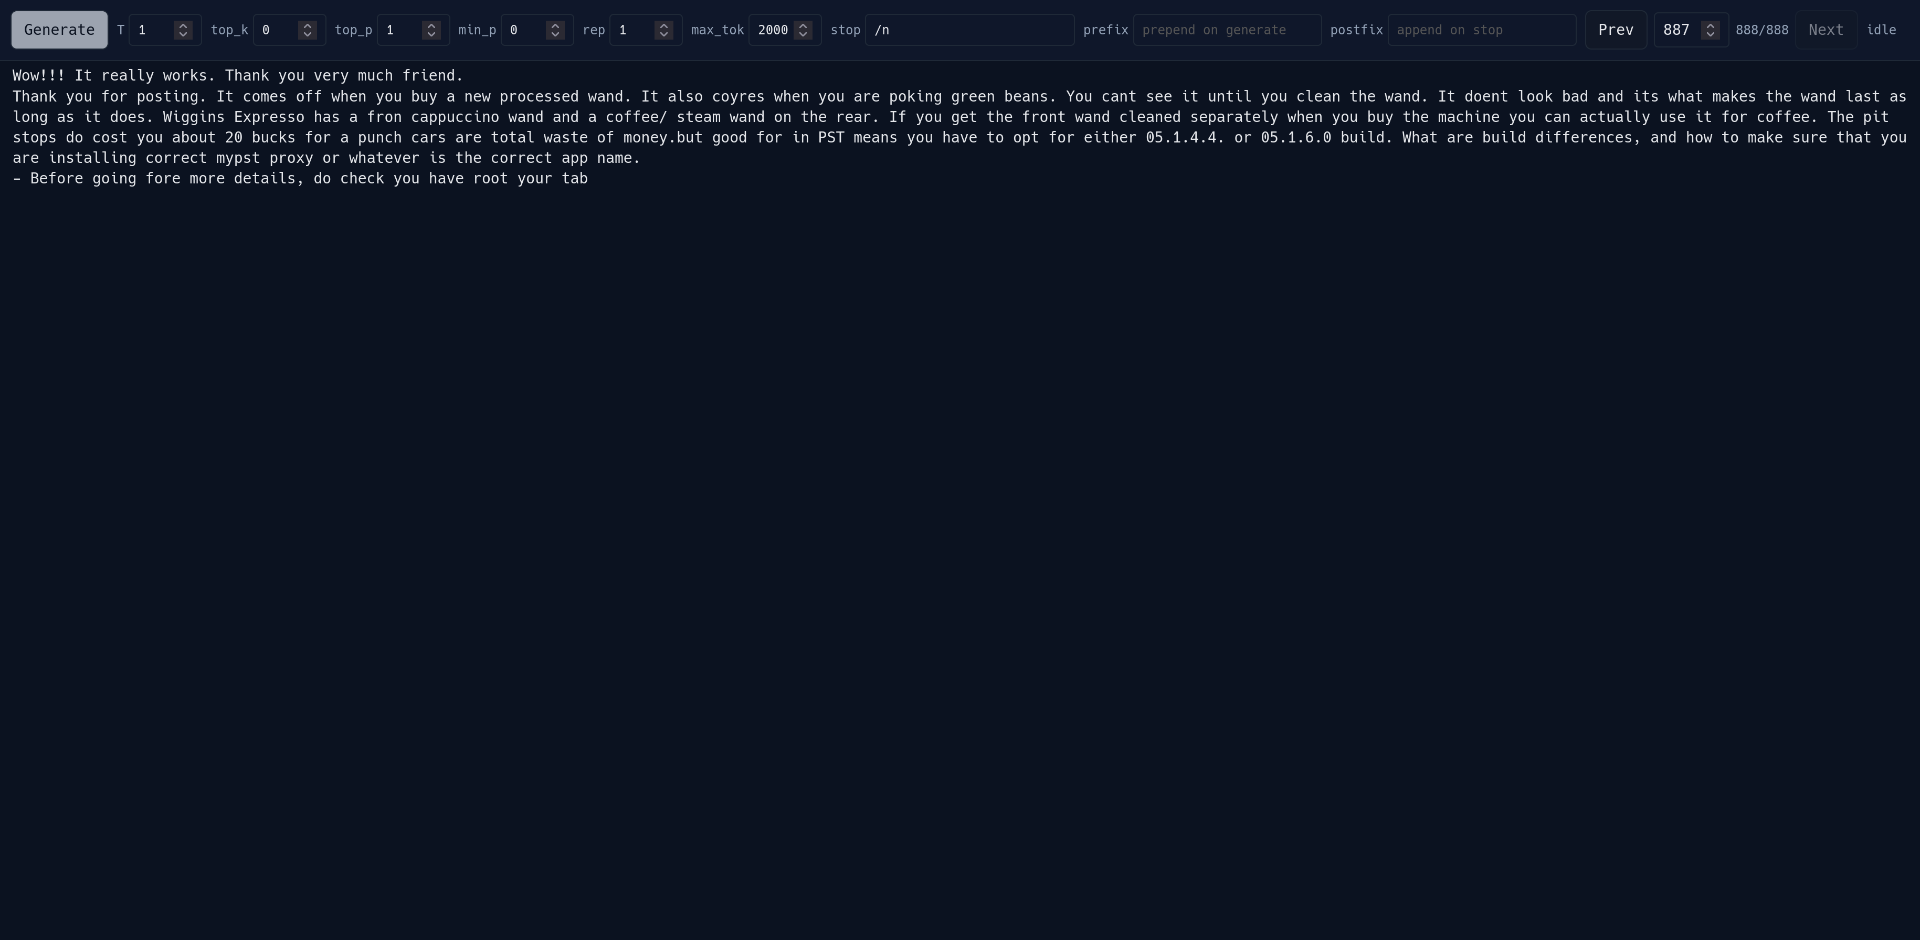
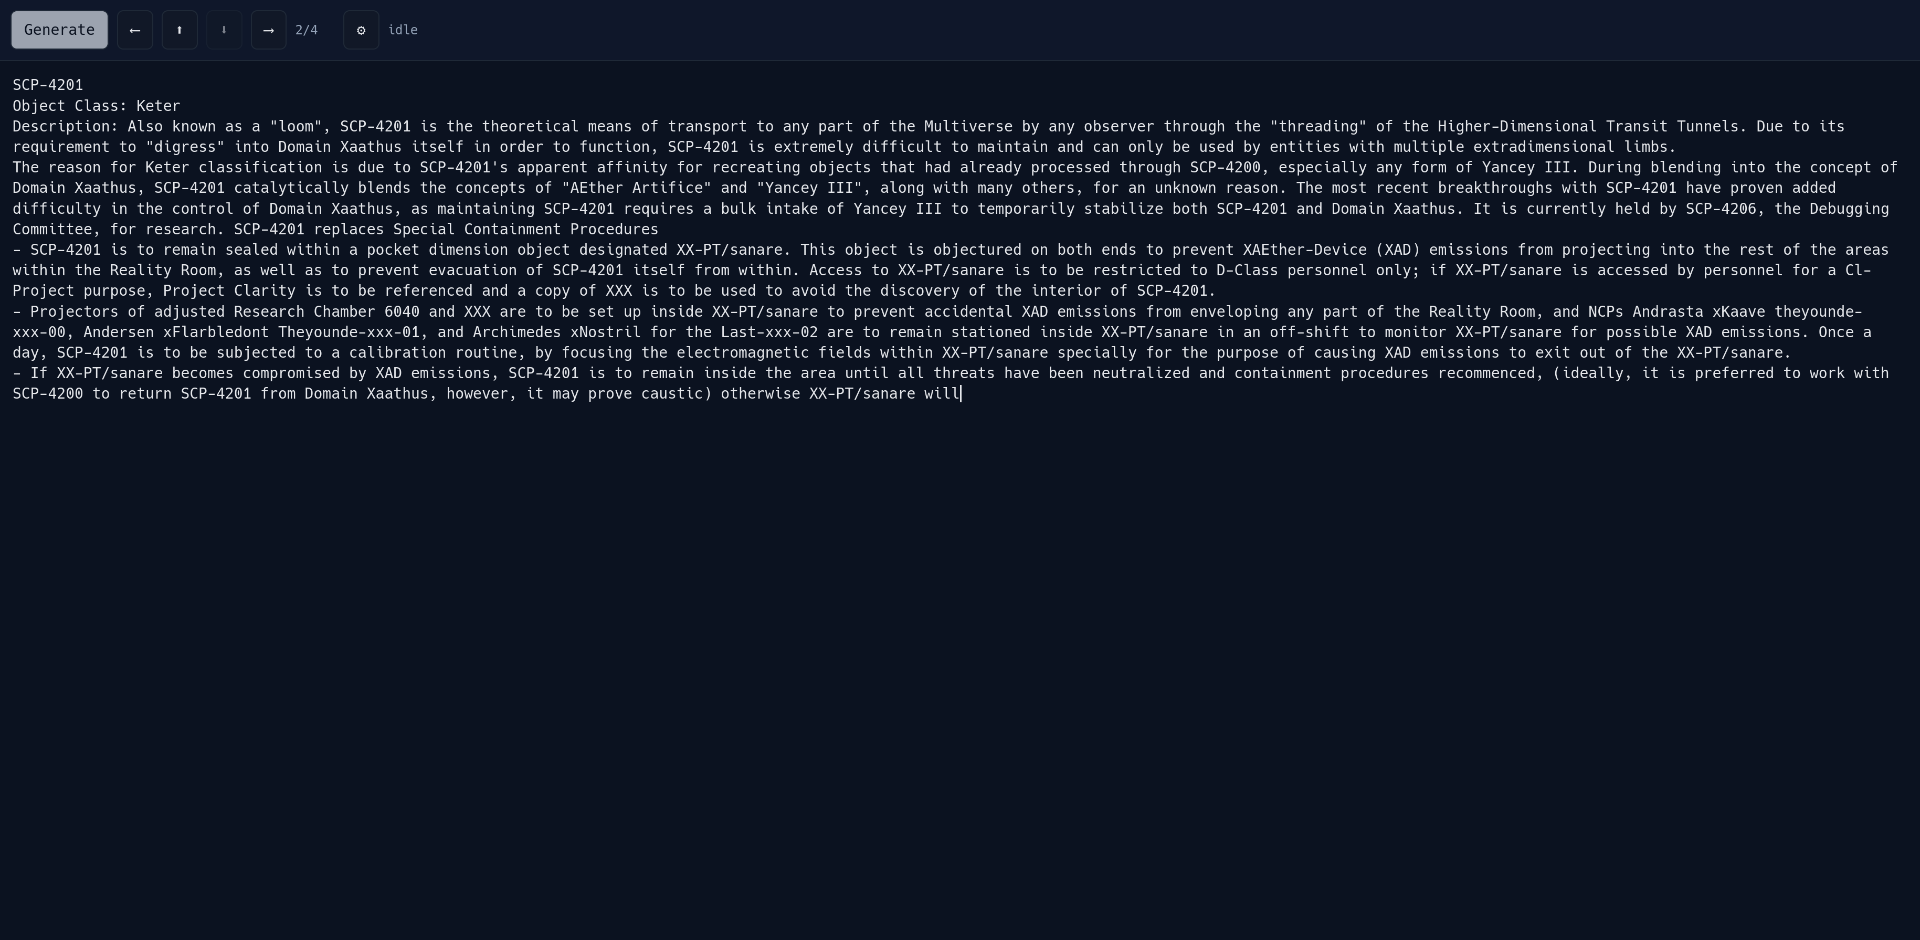
h

diff --git a/loomui.html b/loomui.html
@@ -70,6 +70,35 @@
     button:active { transform: translateY(1px); }
     button.primary { background: var(--accent); color: #0b1220; }
     button:disabled { cursor: not-allowed; opacity: 0.5; box-shadow: none; transform: none; }
+    #settingsToggle { font-size: 18px; padding: 10px 14px; }
+    #sibPrev, #sibNext, #parentJump, #childJump { font-size: 16px; padding: 10px 14px; }
+    .button-link {
+      border: 1px solid var(--border);
+      border-radius: 6px;
+      padding: 8px 12px;
+      font: inherit;
+      background: #111827;
+      color: var(--ink);
+      text-decoration: none;
+      display: inline-flex;
+      align-items: center;
+      justify-content: center;
+      transition: transform 120ms ease, box-shadow 120ms ease;
+    }
+    .button-link.calendar {
+      font-variant-emoji: text;
+      padding: 10px 14px;
+      font-size: 18px;
+      line-height: 1.4;
+      min-height: 46px;
+      height: 46px;
+    }
+    .calendar-emoji {
+      font-variant-emoji: text;
+      filter: grayscale(1);
+      line-height: 1.2;
+    }
+    .button-link:active { transform: translateY(1px); }
     .status { color: var(--muted); font-size: 12px; }
     .param { color: var(--muted); display: flex; align-items: center; gap: 4px; font-size: 12px; }
     .param input {
@@ -93,6 +122,7 @@
     .param.stop input { width: 200px; }
     .param.prefix input { width: 180px; }
     .param.postfix input { width: 180px; }
+    .param.url input { width: 260px; }
     .settings-popout {
       position: absolute;
       top: 52px;
@@ -153,6 +183,7 @@
       </label>
     </div>
     <div class="cluster">
+      <a id="calendarLink" class="button-link calendar" href="/calendar" target="_blank" rel="noopener noreferrer" aria-label="Calendar" title="Open calendar"><span class="calendar-emoji">📅&#xfe0e;</span></a>
       <button id="settingsToggle" aria-label="Settings">⚙</button>
     </div>
     <span id="status" class="status">idle</span>
@@ -163,6 +194,7 @@
       <button id="settingsClose" aria-label="Close settings">X</button>
     </div>
     <div class="settings-row params">
+      <label class="param url">llama url <input id="serverUrl" type="url" placeholder="http://localhost:8055/completion"></label>
       <label class="param">T <input id="temp" type="number" step="0.1" min="0" value="1"></label>
       <label class="param">top_k <input id="topk" type="number" step="1" min="0" value="0"></label>
       <label class="param">top_p <input id="topp" type="number" step="0.01" min="0" max="1" value="1"></label>
@@ -179,10 +211,37 @@
   <script>
     (() => {
       const $ = id => document.getElementById(id);
-      const state = { controller: null, base: '', gen: '', entry: null, cache: new Map(), total: 0, ignoreLog: false, lastPreGenIdx: null, runId: null, runLoggedEnd: false, postfixApplied: false };
+      const state = { controller: null, base: '', gen: '', entry: null, cache: new Map(), total: 0, ignoreLog: false, lastPreGenIdx: null, runId: null, runLoggedEnd: false, postfixApplied: false, serverUrl: '' };
+      const DEFAULT_COMPLETION_URL = 'http://localhost:8055/completion';
+      const SERVER_URL_STORAGE_KEY = 'loomui:serverUrl';
       const newId = () => crypto.randomUUID ? crypto.randomUUID() : 'id-' + Math.random().toString(16).slice(2) + Date.now().toString(16);
       const getHashId = () => (location.hash || '').replace(/^#/, '') || null;
       const setHash = id => { if (id) location.hash = id; };
+      const readStoredServerUrl = () => {
+        try {
+          const saved = localStorage.getItem(SERVER_URL_STORAGE_KEY);
+          if (typeof saved === 'string' && saved.trim()) return saved.trim();
+        } catch (err) {
+          console.warn('reading server url failed', err);
+        }
+        return DEFAULT_COMPLETION_URL;
+      };
+      const setServerUrl = raw => {
+        const normalized = (raw || '').trim() || DEFAULT_COMPLETION_URL;
+        state.serverUrl = normalized;
+        const input = $('serverUrl');
+        if (input && input.value !== normalized) input.value = normalized;
+        try {
+          localStorage.setItem(SERVER_URL_STORAGE_KEY, normalized);
+        } catch (err) {
+          console.warn('saving server url failed', err);
+        }
+        return normalized;
+      };
+      const getServerUrl = () => {
+        const normalized = (state.serverUrl || '').trim();
+        return normalized || DEFAULT_COMPLETION_URL;
+      };
       const histInput = $('histIndex');
       const undoButton = $('undoGen');
       const generateButton = $('generate');
@@ -194,6 +253,7 @@
       const settingsToggle = $('settingsToggle');
       const settingsClose = $('settingsClose');
       const settingsPopout = $('settingsPopout');
+      const serverUrlInput = $('serverUrl');
       const preview = (text, len = 48) => {
         if (!text) return '(empty)';
         const cleaned = String(text).replace(/\s+/g, ' ').trim();
@@ -345,8 +405,14 @@
         updateParentButton();
         updateChildButton();
       };
+      var modified = false;
+      const flagChange = () => {
+        modified = true;
+      };
       const logChange = text => {
+        if (!modified) return;
         if (state.ignoreLog) return;
+        modified = false;
         const content = text ?? $('pad')?.value;
         if (content === undefined) return;
         const id = newId();
@@ -386,6 +452,7 @@
           min_p: num('minp', 0, parseFloat),
           repetition_penalty: num('reppen', 1, parseFloat),
           n_predict: num('maxtok', 512, parseInt),
+          server_url: getServerUrl(),
           stop: stopTokens.length ? stopTokens : undefined,
           stop_raw: stopRaw || undefined,
           prefix: prefix || undefined,
@@ -407,6 +474,10 @@
         set('minp', params.min_p);
         set('reppen', params.repetition_penalty);
         set('maxtok', params.n_predict ?? params.max_tokens ?? params.max_new_tokens);
+        const serverUrlVal = params.server_url ?? params.base_url ?? params.url;
+        if (serverUrlVal !== undefined && serverUrlVal !== null && serverUrlVal !== '') {
+          setServerUrl(serverUrlVal);
+        }
         const stop = params.stop || params.stop_tokens || [];
         const stopField = $('stopTokens');
         if (stopField) {
@@ -605,6 +676,7 @@
       const mergeContent = text => {
         if (text.startsWith(state.gen)) state.gen = text;
         else state.gen += text;
+        modified = true;
         const pad = $('pad');
         const stickToBottom = isNearBottom();
         const wasFocused = document.activeElement === pad;
@@ -656,10 +728,13 @@
       };
       const generate = async () => {
         const beforeIdx = currentIndex();
+        logChange();
         stop();
+        if (serverUrlInput) setServerUrl(serverUrlInput.value);
         state.lastPreGenIdx = beforeIdx >= 0 ? beforeIdx : null;
         setUndoEnabled();
         state.base = $('pad').value;
+        modified = true;
         const prefix = getPrefix();
         if (prefix) {
           state.base += prefix;
@@ -684,10 +759,13 @@
         $('status').textContent = 'generating…';
         state.controller = new AbortController();
         try {
-          const res = await fetch('http://192.168.86.21:8055/completion', {
+          const endpoint = getServerUrl();
+          const params = getParams();
+          const { server_url, ...llamaParams } = params;
+          const res = await fetch(endpoint, {
             method: 'POST',
             headers: { 'Content-Type': 'application/json' },
-            body: JSON.stringify({ prompt, stream: true, ...getParams() }),
+            body: JSON.stringify({ prompt, stream: true, ...llamaParams }),
             signal: state.controller.signal
           });
           if (!res.ok) throw new Error(`Server ${res.status}`);
@@ -722,6 +800,12 @@
         if (settingsPopout.contains(e.target) || settingsToggle?.contains(e.target)) return;
         setSettingsVisible(false);
       });
+      setServerUrl(readStoredServerUrl());
+      const syncServerUrl = () => { if (serverUrlInput) setServerUrl(serverUrlInput.value); };
+      if (serverUrlInput) {
+        serverUrlInput.addEventListener('change', syncServerUrl);
+        serverUrlInput.addEventListener('blur', syncServerUrl);
+      }
       document.addEventListener('keydown', e => {
         if (e.key === 'Escape' && settingsPopout && !settingsPopout.hidden) {
           setSettingsVisible(false);
@@ -753,10 +837,10 @@
           undoGeneration();
         }
       });
-      $('pad').addEventListener('input', () => { fitPad(); logChange($('pad').value); });
+      $('pad').addEventListener('input', () => { fitPad(); flagChange(); });
       ['temp', 'topk', 'topp', 'minp', 'reppen', 'maxtok', 'stopTokens', 'prefix', 'postfix'].forEach(id => {
         const el = $(id);
-        if (el) el.addEventListener('input', () => logChange($('pad').value));
+        if (el) el.addEventListener('input', () => flagChange());
       });
       const undoGeneration = () => {
         if (state.lastPreGenIdx == null) return;

diff --git a/README.md b/README.md
@@ -17,15 +17,15 @@ If you go to [http://localhost:5000/](http://localhost:5000/) you should see the
 
 ![loom preview](https://raw.githubusercontent.com/Phylliida/minloomwebui/refs/heads/main/loom.png)
 
-It's deliberately very minimal. There's an undo but no support for viewing a tree, just you and the text box.
+It's deliberately very minimal. You can traverse the tree via the arrows (up to parent, left and right to siblings, down to last visited child). ctrl-left, ctrl-right, etc. can press these buttons. Ctrl-enter to pause and begin generation.
 
-However your entire history is stored. You can access it by moving prev and next (or typing in an index), or by copying the current url (which will have a persistent link via a hash).
+Your entire history is stored. You can access it by moving prev and next (or typing in an index), or by copying the current url (which will have a persistent link via a hash).
 
 Save those hashes if you want to "bookmark" something.
 
 You can also navigate around using the browser back and forward buttons.
 
-There's a calendar view at [http://localhost:5000/calendar](http://localhost:5000/calendar) that allows you to view your entire chronological history.
+There's a calendar view that allows you to view your entire chronological history.
 
 ## Source
 
